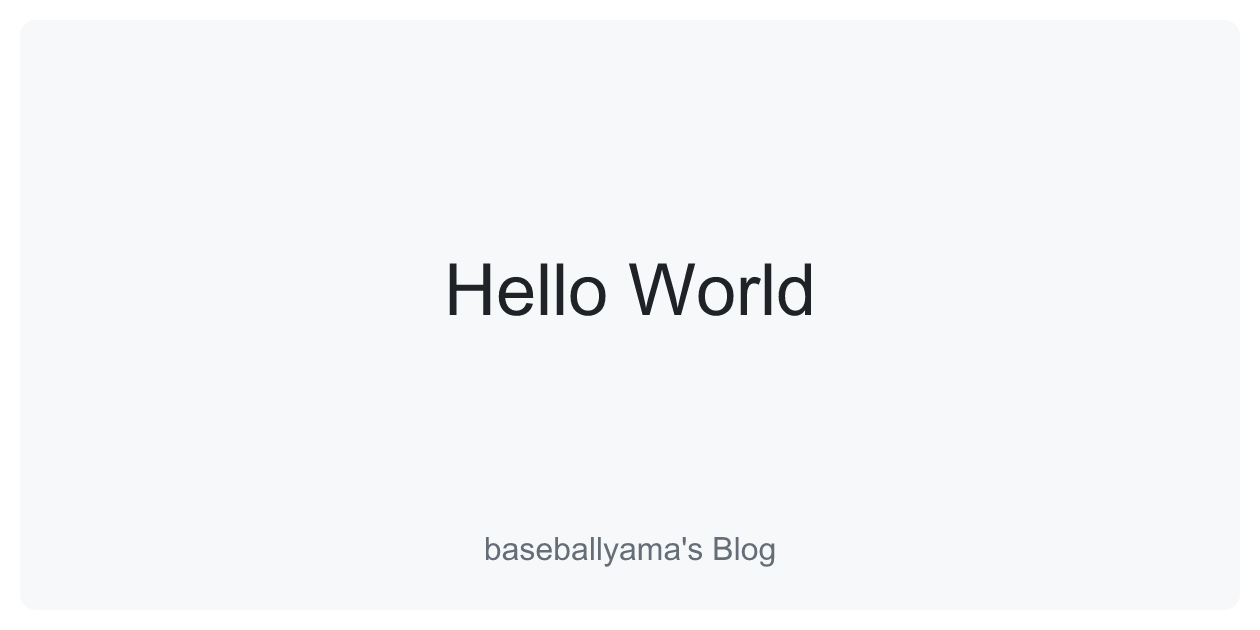
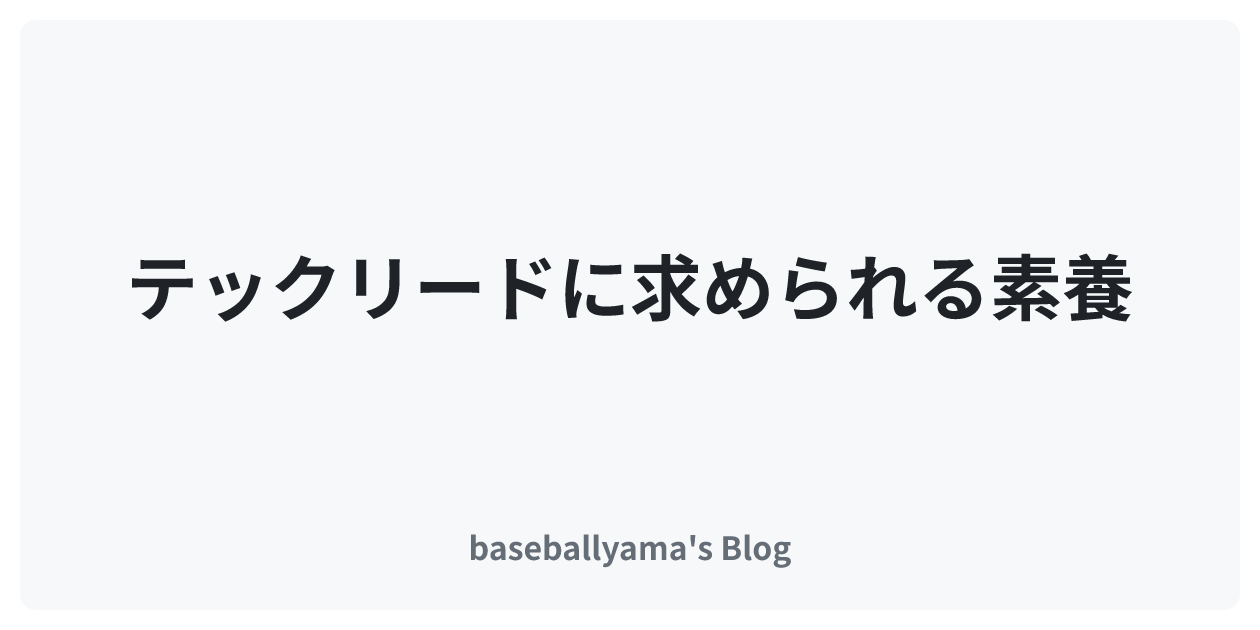
add footer and fix ogp

Changed region(s): [[0.0929, 0.3921, 0.8976, 0.5127], [0.3714, 0.8444, 0.65, 0.9048]]

diff --git a/scripts/build.ts b/scripts/build.ts
@@ -4,10 +4,22 @@ import { marked } from "marked";
 import { Resvg } from "@resvg/resvg-js";
 
 const ROOT = path.join(import.meta.dirname, "..");
+const FONT_URL = "https://github.com/notofonts/noto-cjk/raw/main/Sans/OTF/Japanese/NotoSansCJKjp-Bold.otf";
+const FONT_PATH = path.join(ROOT, "src", "fonts", "NotoSansCJKjp-Bold.otf");
+
+async function ensureFont(): Promise<void> {
+  if (fs.existsSync(FONT_PATH)) return;
+  console.log("Downloading font...");
+  fs.mkdirSync(path.dirname(FONT_PATH), { recursive: true });
+  const res = await fetch(FONT_URL);
+  const buffer = Buffer.from(await res.arrayBuffer());
+  fs.writeFileSync(FONT_PATH, buffer);
+  console.log("Font downloaded.");
+}
 const SRC_DIR = path.join(ROOT, "src");
 const POSTS_DIR = path.join(ROOT, "posts");
 const OUT_DIR = path.join(ROOT, "docs");
-const BASE_URL = "https://blog.baseballyama.com";
+const BASE_URL =  "https://blog.baseballyama.com/"
 
 interface Post {
   slug: string;
@@ -81,17 +93,22 @@ function generateOgImage(title: string, outputPath: string): void {
 
   const textY = 315 - (lines.length - 1) * 45;
   const textElements = lines
-    .map((line, i) => `<text x="630" y="${textY + i * 90}" text-anchor="middle" font-size="72" font-weight="bold" fill="#1f2328">${escapeXml(line)}</text>`)
+    .map((line, i) => `<text x="630" y="${textY + i * 90}" text-anchor="middle" font-size="72" font-weight="bold" fill="#1f2328" font-family="Noto Sans CJK JP">${escapeXml(line)}</text>`)
     .join("\n");
 
   const svg = `<svg width="1260" height="630" xmlns="http://www.w3.org/2000/svg">
   <rect width="1260" height="630" fill="#ffffff"/>
   <rect x="20" y="20" width="1220" height="590" fill="#f6f8fa" rx="16"/>
   ${textElements}
-  <text x="630" y="560" text-anchor="middle" font-size="32" fill="#656d76">baseballyama's Blog</text>
+  <text x="630" y="560" text-anchor="middle" font-size="32" fill="#656d76" font-family="Noto Sans CJK JP">baseballyama's Blog</text>
 </svg>`;
 
-  const resvg = new Resvg(svg);
+  const resvg = new Resvg(svg, {
+    font: {
+      fontFiles: [FONT_PATH],
+      loadSystemFonts: false,
+    },
+  });
   const png = resvg.render().asPng();
   fs.writeFileSync(outputPath, png);
 }
@@ -100,7 +117,8 @@ function escapeXml(str: string): string {
   return str.replace(/&/g, "&amp;").replace(/</g, "&lt;").replace(/>/g, "&gt;").replace(/"/g, "&quot;");
 }
 
-function build(): void {
+async function build(): Promise<void> {
+  await ensureFont();
   const template = fs.readFileSync(path.join(SRC_DIR, "template.html"), "utf-8");
   const indexTemplate = fs.readFileSync(path.join(SRC_DIR, "index.html"), "utf-8");
   const posts = loadPosts();
@@ -136,7 +154,7 @@ function build(): void {
   const listItems = posts
     .map(
       (p) =>
-        `<li><a href="${BASE_URL}/posts/${p.slug}.html"><div class="post-title">${p.title}</div><div class="post-date">${p.date}</div></a></li>`
+        `<li><a href="./posts/${p.slug}.html"><div class="post-title">${p.title}</div><div class="post-date">${p.date}</div></a></li>`
     )
     .join("\n");
   const indexHtml = render(indexTemplate, {
@@ -161,7 +179,7 @@ function build(): void {
 }
 
 // Main
-build();
+await build();
 
 if (process.argv.includes("--watch")) {
   console.log("Watching for changes...");

diff --git a/docs/posts/20260121-tech-lead.html b/docs/posts/20260121-tech-lead.html
@@ -8,15 +8,15 @@
   <meta property="og:title" content="テックリードに求められる素養">
   <meta name="description" content="私が働いている [flyle](https://flyle.io/jp) では、長い間テックリードとして技術方針の意思決定に関わってきた。  今後（あるいは近い将来）、役割を分担したり、次の担い手を育てたりする場面も増えるはずだ。そこで今">
   <meta property="og:description" content="私が働いている [flyle](https://flyle.io/jp) では、長い間テックリードとして技術方針の意思決定に関わってきた。  今後（あるいは近い将来）、役割を分担したり、次の担い手を育てたりする場面も増えるはずだ。そこで今">
-  <meta property="og:url" content="https://blog.baseballyama.com/posts/20260121-tech-lead.html">
-  <meta property="og:image" content="https://blog.baseballyama.com/ogp/20260121-tech-lead.png">
+  <meta property="og:url" content="../../posts/20260121-tech-lead.html">
+  <meta property="og:image" content="https://blog.baseballyama.com//ogp/20260121-tech-lead.png">
   <meta property="og:image:width" content="1260">
   <meta property="og:image:height" content="630">
   <meta property="og:type" content="article">
   <meta name="twitter:card" content="summary_large_image">
-  <meta name="twitter:image" content="https://blog.baseballyama.com/ogp/20260121-tech-lead.png">
-  <link rel="stylesheet" href="/style.css">
-  <link rel="icon" href="https://blog.baseballyama.com/favicon.png">
+  <meta name="twitter:image" content="https://blog.baseballyama.com//ogp/20260121-tech-lead.png">
+  <link rel="stylesheet" href="../style.css">
+  <link rel="icon" href="../favicon.png">
 </head>
 <body>
   <main>
@@ -77,5 +77,8 @@
 
     </article>
   </main>
+  <footer>
+    <p>&copy; 2026 baseballyama. All rights reserved.</p>
+  </footer>
 </body>
 </html>

diff --git a/docs/posts/second-post.html b/docs/posts/second-post.html
@@ -8,15 +8,15 @@
   <meta property="og:title" content="2番目の記事">
   <meta name="description" content="これは2番目の記事です。  日付順にソートされるので、この記事は「Hello World」の下に表示されます。">
   <meta property="og:description" content="これは2番目の記事です。  日付順にソートされるので、この記事は「Hello World」の下に表示されます。">
-  <meta property="og:url" content="https://blog.baseballyama.com/posts/second-post.html">
-  <meta property="og:image" content="https://blog.baseballyama.com/ogp/second-post.png">
+  <meta property="og:url" content="../../posts/second-post.html">
+  <meta property="og:image" content="https://blog.baseballyama.com//ogp/second-post.png">
   <meta property="og:image:width" content="1260">
   <meta property="og:image:height" content="630">
   <meta property="og:type" content="article">
   <meta name="twitter:card" content="summary_large_image">
-  <meta name="twitter:image" content="https://blog.baseballyama.com/ogp/second-post.png">
-  <link rel="stylesheet" href="/style.css">
-  <link rel="icon" href="https://blog.baseballyama.com/favicon.png">
+  <meta name="twitter:image" content="https://blog.baseballyama.com//ogp/second-post.png">
+  <link rel="stylesheet" href="../style.css">
+  <link rel="icon" href="../favicon.png">
 </head>
 <body>
   <main>
@@ -28,5 +28,8 @@
 
     </article>
   </main>
+  <footer>
+    <p>&copy; 2026 baseballyama. All rights reserved.</p>
+  </footer>
 </body>
 </html>

diff --git a/docs/index.html b/docs/index.html
@@ -5,14 +5,17 @@
   <meta name="viewport" content="width=device-width, initial-scale=1.0">
   <title>baseballyama's Blog</title>
   <meta name="description" content="baseballyamaの技術ブログです。">
-  <link rel="stylesheet" href="https://blog.baseballyama.com/style.css">
-  <link rel="icon" href="https://blog.baseballyama.com/favicon.png">
+  <link rel="stylesheet" href="./style.css">
+  <link rel="icon" href="./favicon.png">
 </head>
 <body>
   <main>
     <h1><a href="https://github.com/baseballyama" target="_blank">baseballyama</a>'s Blog</h1>
-    <ul class="post-list"><li><a href="https://blog.baseballyama.com/posts/20260121-tech-lead.html"><div class="post-title">テックリードに求められる素養</div><div class="post-date">2026-01-21</div></a></li>
-<li><a href="https://blog.baseballyama.com/posts/second-post.html"><div class="post-title">2番目の記事</div><div class="post-date">2026-01-19</div></a></li></ul>
+    <ul class="post-list"><li><a href="./posts/20260121-tech-lead.html"><div class="post-title">テックリードに求められる素養</div><div class="post-date">2026-01-21</div></a></li>
+<li><a href="./posts/second-post.html"><div class="post-title">2番目の記事</div><div class="post-date">2026-01-19</div></a></li></ul>
   </main>
+  <footer>
+    <p>&copy; 2026 baseballyama. All rights reserved.</p>
+  </footer>
 </body>
 </html>

diff --git a/src/template.html b/src/template.html
@@ -8,15 +8,15 @@
   <meta property="og:title" content="{{title}}">
   <meta name="description" content="{{description}}">
   <meta property="og:description" content="{{description}}">
-  <meta property="og:url" content="{{base-url}}/posts/{{slug}}.html">
+  <meta property="og:url" content="../../posts/{{slug}}.html">
   <meta property="og:image" content="{{base-url}}/ogp/{{slug}}.png">
   <meta property="og:image:width" content="1260">
   <meta property="og:image:height" content="630">
   <meta property="og:type" content="article">
   <meta name="twitter:card" content="summary_large_image">
   <meta name="twitter:image" content="{{base-url}}/ogp/{{slug}}.png">
-  <link rel="stylesheet" href="/style.css">
-  <link rel="icon" href="{{base-url}}/favicon.png">
+  <link rel="stylesheet" href="../style.css">
+  <link rel="icon" href="../favicon.png">
 </head>
 <body>
   <main>
@@ -26,5 +26,8 @@
       {{content}}
     </article>
   </main>
+  <footer>
+    <p>&copy; 2026 baseballyama. All rights reserved.</p>
+  </footer>
 </body>
 </html>

diff --git a/docs/style.css b/docs/style.css
@@ -3,12 +3,19 @@
 body {
   max-width: 800px;
   margin: 0 auto;
-  padding: 2rem;
+  padding: 2rem 2rem 0;
   font-family: system-ui, -apple-system, BlinkMacSystemFont, "Segoe UI", "Hiragino Sans", "Hiragino Kaku Gothic ProN", "Noto Sans JP", Meiryo, sans-serif;
   font-size: 16px;
   line-height: 1.7;
   color: #1f2328;
   background: #fff;
+  min-height: 100vh;
+  display: flex;
+  flex-direction: column;
+}
+
+main {
+  flex: 1;
 }
 
 /* リンク */
@@ -183,4 +190,17 @@ article { margin-top: 2rem; }
 .post-list .post-date {
   font-size: 0.85rem;
   color: #656d76;
+}
+
+/* フッター */
+footer {
+  margin-top: 4rem;
+  padding: 2rem 0;
+  border-top: 1px solid #d1d9e0;
+  text-align: center;
+  color: #656d76;
+  font-size: 0.85rem;
+}
+footer p {
+  margin: 0;
 }

diff --git a/src/style.css b/src/style.css
@@ -3,12 +3,19 @@
 body {
   max-width: 800px;
   margin: 0 auto;
-  padding: 2rem;
+  padding: 2rem 2rem 0;
   font-family: system-ui, -apple-system, BlinkMacSystemFont, "Segoe UI", "Hiragino Sans", "Hiragino Kaku Gothic ProN", "Noto Sans JP", Meiryo, sans-serif;
   font-size: 16px;
   line-height: 1.7;
   color: #1f2328;
   background: #fff;
+  min-height: 100vh;
+  display: flex;
+  flex-direction: column;
+}
+
+main {
+  flex: 1;
 }
 
 /* リンク */
@@ -183,4 +190,17 @@ article { margin-top: 2rem; }
 .post-list .post-date {
   font-size: 0.85rem;
   color: #656d76;
+}
+
+/* フッター */
+footer {
+  margin-top: 4rem;
+  padding: 2rem 0;
+  border-top: 1px solid #d1d9e0;
+  text-align: center;
+  color: #656d76;
+  font-size: 0.85rem;
+}
+footer p {
+  margin: 0;
 }

diff --git a/src/index.html b/src/index.html
@@ -5,13 +5,16 @@
   <meta name="viewport" content="width=device-width, initial-scale=1.0">
   <title>baseballyama's Blog</title>
   <meta name="description" content="baseballyamaの技術ブログです。">
-  <link rel="stylesheet" href="{{base-url}}/style.css">
-  <link rel="icon" href="{{base-url}}/favicon.png">
+  <link rel="stylesheet" href="./style.css">
+  <link rel="icon" href="./favicon.png">
 </head>
 <body>
   <main>
     <h1><a href="https://github.com/baseballyama" target="_blank">baseballyama</a>'s Blog</h1>
     {{post-list}}
   </main>
+  <footer>
+    <p>&copy; 2026 baseballyama. All rights reserved.</p>
+  </footer>
 </body>
 </html>
